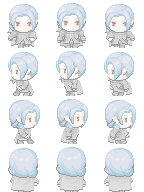
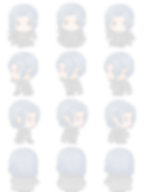
Adicionado um efeito ao personagem quando volta no tempo;

diff --git a/src/br/edu/iftm/controllers/FlashBackSkill.java b/src/br/edu/iftm/controllers/FlashBackSkill.java
@@ -1,5 +1,6 @@
-package br.edu.iftm.models;
+package br.edu.iftm.controllers;
 
+import java.util.ArrayList;
 import org.newdawn.slick.geom.Point;
 
 import br.edu.iftm.models.entities.Character;
@@ -10,6 +11,7 @@ import br.edu.iftm.models.stacks.flashback.ActionElement;
 import br.edu.iftm.models.stacks.flashback.StackFlashback;
 
 public class FlashBackSkill {
+	private ArrayList<Character> oldHeroes;
 	private StackFlashback[] stacks;
 	private Character hero;
 	private LifeBar lifebar;
@@ -19,6 +21,7 @@ public class FlashBackSkill {
 
 	public FlashBackSkill(int stackType, Character hero, LifeBar lifebar, HistoryBar histBar)
 	{
+		oldHeroes = new ArrayList<Character>();
 		stacks = new StackFlashback[2];
 		stacks[0] = new StackFlashback(stackType, 50);
 		stacks[1] = new StackFlashback(stackType, 50);
@@ -75,20 +78,48 @@ public class FlashBackSkill {
 		contActions = 0;
 	}
 	
+	private void addOldHeroGraphic()
+	{
+		Character oldHero = new Character(hero.getX(), hero.getY(), hero.getSpriteSheet(), hero.getDir());
+		
+		oldHeroes.add(oldHero);
+	}
+	
+	public void clearOldHeroes()
+	{
+		oldHeroes.clear();
+	}
+	
+	public void drawOldHeroes()
+	{
+		for(int i=0; i < oldHeroes.size(); i++)
+			oldHeroes.get(i).draw();
+	}
+	
+	private void popAndRefreshGraphics(int index) throws Exception
+	{
+		System.out.println("POP Stack #" + (index+1) + " " + stacks[index].getSize() + "/" + stacks[index].getSizeMax() + "; maxActionsReturn = " + maxActionsReturn);
+		ActionElement actionElement = (ActionElement) stacks[index].pop();
+		addOldHeroGraphic();
+		histBar.removeIcon();
+		
+		if(actionElement.isCharBackup())
+			restoreChar(actionElement);
+		else
+			restoreHp(actionElement);
+		contActions++;
+	}
+	
 	public boolean restore()
 	{
 		if(contActions >= maxActionsReturn) return false;
-		
-		ActionElement actionElement;
 		
 		if(stacks[stackActive].isEmpty())
 		{
 			if(stacks[otherStack].isEmpty())
 				return false;
 			try {
-				System.out.println("POP Stack #" + (otherStack+1) + " " + stacks[otherStack].getSize() + "/" + stacks[otherStack].getSizeMax() + "; maxActionsReturn = " + maxActionsReturn);
-				actionElement = (ActionElement) stacks[otherStack].pop();
-				histBar.removeIcon();
+				popAndRefreshGraphics(otherStack);
 				swapStackActive(); // Stack Active is empty, but the other stack have a free slot
 			} catch (Exception e) {
 				e.printStackTrace();
@@ -98,9 +129,7 @@ public class FlashBackSkill {
 		else
 		{
 			try {
-				System.out.println("POP Stack #" + (stackActive+1) + " " + stacks[stackActive].getSize() + "/" + stacks[stackActive].getSizeMax() + "; maxActionsReturn = " + maxActionsReturn);
-				actionElement = (ActionElement) stacks[stackActive].pop();
-				histBar.removeIcon();
+				popAndRefreshGraphics(stackActive);
 			} catch (Exception e) {
 				e.printStackTrace();
 				return false;
@@ -108,12 +137,6 @@ public class FlashBackSkill {
 			
 		}
 		
-		//System.out.println("[sizeStack="+stacks[stackActive].getSize()+"]" + actionElement);
-		if(actionElement.isCharBackup())
-			restoreChar(actionElement);
-		else
-			restoreHp(actionElement);
-		contActions++;
 		return true;
 	}
 	
@@ -140,4 +163,14 @@ public class FlashBackSkill {
 			e.printStackTrace();
 		}
 	}
+
+	public ArrayList<Character> getOldHeroes() {
+		return oldHeroes;
+	}
+
+	public void setOldHeroes(ArrayList<Character> oldHeroes) {
+		this.oldHeroes = oldHeroes;
+	}
+	
+	
 }

diff --git a/src/br/edu/iftm/view/Game.java b/src/br/edu/iftm/view/Game.java
@@ -12,8 +12,8 @@ import org.newdawn.slick.SlickException;
 import org.newdawn.slick.SpriteSheet;
 import org.newdawn.slick.geom.Point;
 
+import br.edu.iftm.controllers.FlashBackSkill;
 import br.edu.iftm.controllers.Window;
-import br.edu.iftm.models.FlashBackSkill;
 import br.edu.iftm.models.entities.Character;
 import br.edu.iftm.models.entities.HistoryBar;
 import br.edu.iftm.models.entities.LifeBar;
@@ -44,7 +44,8 @@ public class Game extends BasicGame{
 		bg.draw();	
 		drawShots(g);
 		
-		
+		if(skillOn)
+			flashBack.drawOldHeroes();
 		hero.draw();		
 		drawEnemies(g);
 		drawInterface();
@@ -163,6 +164,7 @@ public class Game extends BasicGame{
 		if(input.isKeyPressed(Input.KEY_LSHIFT))
 		{
 			System.out.println("Especial");
+			flashBack.clearOldHeroes();
 			flashBack.use();
 			hero.setSpriteSheet(ss_hero_skill);
 			skillOn = true;

diff --git a/src/br/edu/iftm/controllers/Window.java b/src/br/edu/iftm/controllers/Window.java
@@ -2,8 +2,6 @@ package br.edu.iftm.controllers;
 
 import org.newdawn.slick.geom.Point;
 
-import br.edu.iftm.view.Game;
-
 public class Window {
 	public static final int WIDTH = 800;
 	public static final int HEIGHT = 600;

diff --git a/src/br/edu/iftm/models/entities/Character.java b/src/br/edu/iftm/models/entities/Character.java
@@ -42,7 +42,6 @@ public class Character extends Entity{
 		image = ss.getSprite(spriteOffX, dir);
 		image.draw((int)position.getX(), (int)position.getY());
 	}
-	
 
 	@Override
 	boolean move(float movX, float movY)
